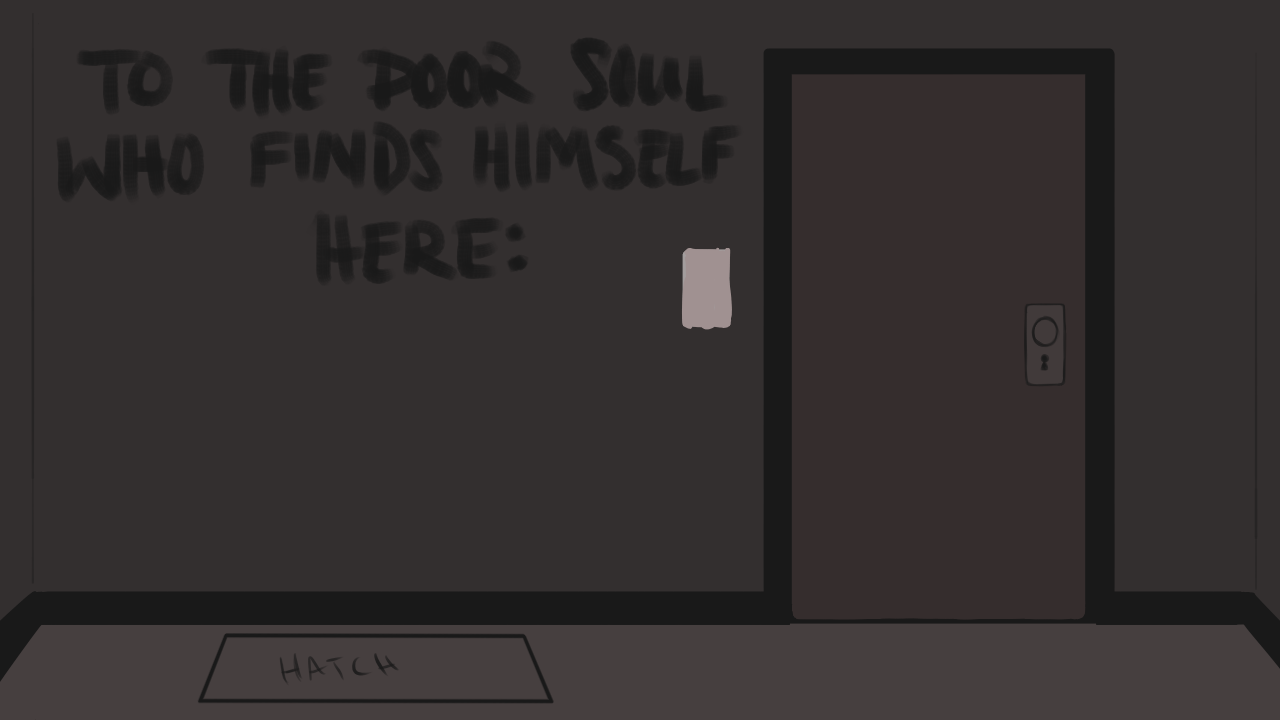
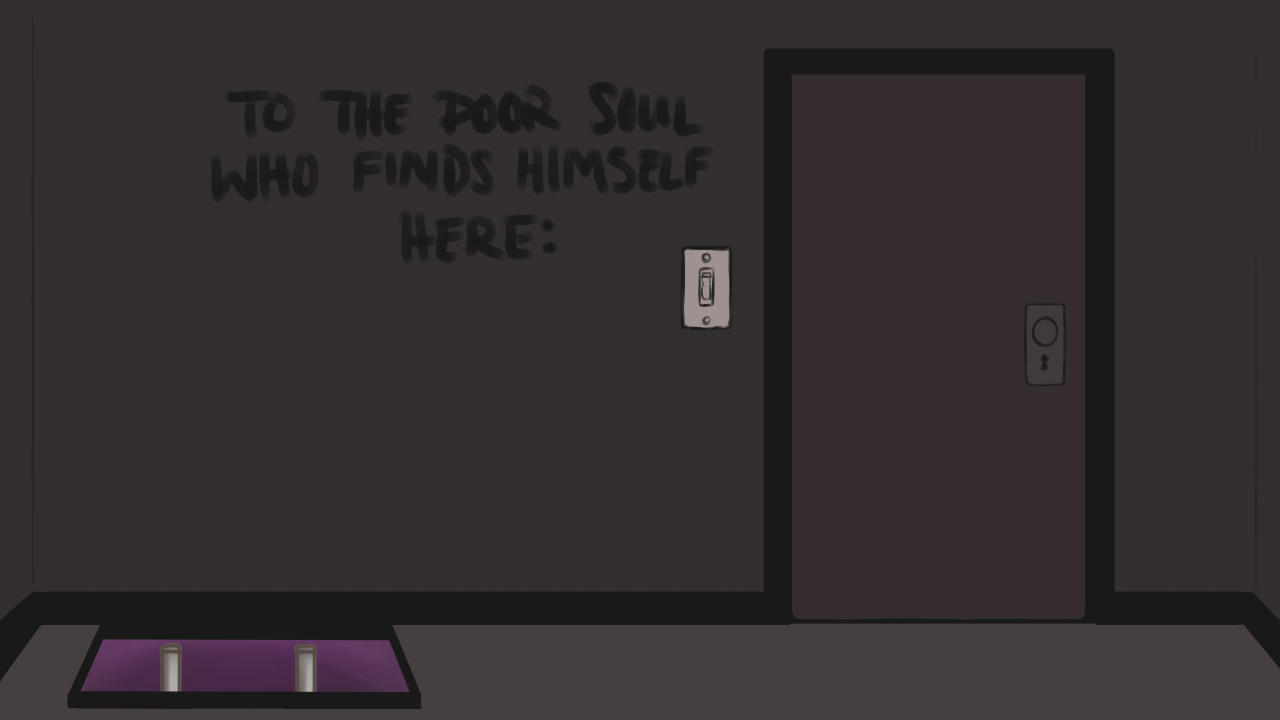
Fix scene pause movement bug

diff --git a/src/scenes/Ritual/RitualSouth.js b/src/scenes/Ritual/RitualSouth.js
@@ -36,6 +36,14 @@ class RitualSouth extends Phaser.Scene {
         
         /////////////////////////////////////////////////////////////////////////////////////////////////////////
         // objects
+        // hatch hit
+        this.hatchHit = this.add.image(240, 655, 'hitbox');
+        this.hatchHit.setDisplaySize(340, 100);
+        this.hatchHit.setVisible(true);
+        this.hatchHit.setInteractive({
+            useHandCursor: true
+        });
+
         // switch on
         this.on = this.add.image(640, 360, 'switchOn');
         this.on.setDisplaySize(1280, 720);
@@ -52,6 +60,14 @@ class RitualSouth extends Phaser.Scene {
             useHandCursor: true
         });
 
+        // closet hit
+        this.closetHit = this.add.image(940, 335, 'hitbox');
+        this.closetHit.setDisplaySize(380, 570);
+        this.closetHit.setVisible(true);
+        this.closetHit.setInteractive({
+            useHandCursor: true
+        });
+
         /////////////////////////////////////////////////////////////////////////////////////////////////////////
         // hot bar 
         this.hotbar = this.add.image(640, 350, 'hotbarRitual');
@@ -65,7 +81,7 @@ class RitualSouth extends Phaser.Scene {
         this.matchesHot.setVisible(false);
 
         this.knifeHot = this.add.sprite(560, 660, 'knifeRitual');
-        this.knifeHot.setDisplaySize(65, 65);
+        this.knifeHot.setDisplaySize(100, 65);
         this.knifeHot.setVisible(false);
 
         /////////////////////////////////////////////////////////////////////////////////////////////////////////
@@ -91,6 +107,16 @@ class RitualSouth extends Phaser.Scene {
         this.add.rectangle(0, game.config.height - 10, game.config.width, 10, 0x61282f).setOrigin(0, 0);
         this.add.rectangle(0, 0, game.config.width, 10, 0x61282f).setOrigin(0, 0);
         this.add.rectangle(game.config.width - 10, 0, 10, game.config.height, 0x61282f).setOrigin(0, 0);
+    
+        /////////////////////////////////////////////////////////////////////////////////////////////////////////
+        // scene changes
+        this.input.keyboard.on('keydown-A', () => {
+            this.scene.start("ritualEast"); 
+		});
+
+        this.input.keyboard.on('keydown-D', () => {
+            this.scene.start("ritualWest"); 
+		});
     }
     
     update() {
@@ -126,6 +152,26 @@ class RitualSouth extends Phaser.Scene {
             }
         });
 
+
+        /////////////////////////////////////////////////////////////////////////////////////////////////////////
+        // scene switches
+        // closet
+        this.closetHit.on('pointerdown', (pointer) => {
+            if(deskKey == 1 && this.textTimer == 0){
+                this.textTimer = 1;
+                this.timeVar = 50;
+                this.scene.switch("ritualCloset");
+            }
+        });
+
+        this.hatchHit.on('pointerdown', (pointer) => {
+            if(this.textTimer == 0){
+                this.textTimer = 1;
+                this.timeVar = 50;
+                this.scene.switch("loadingSouth");
+            }
+        });
+
         /////////////////////////////////////////////////////////////////////////////////////////////////////////
         // text timers
         if(this.textTimer > 0 && this.textTimer < this.timeVar) {
@@ -151,15 +197,6 @@ class RitualSouth extends Phaser.Scene {
             this.on.setVisible(true);
             this.off.setVisible(false);
         } 
-        
-        /////////////////////////////////////////////////////////////////////////////////////////////////////////
-        // scene change on keypress
-        if(Phaser.Input.Keyboard.JustDown(keyA)){
-            this.scene.start("ritualEast");
-        };
-        if(Phaser.Input.Keyboard.JustDown(keyD)){
-            this.scene.start("ritualWest");
-        };
     }
     
     hotBarItems(on){

diff --git a/src/scenes/Ritual/Closet.js b/src/scenes/Ritual/Closet.js
@@ -1,11 +1,11 @@
-class Pentagram extends Phaser.Scene {
+class Closet extends Phaser.Scene {
     constructor() {
-        super("ritualPentagram");
+        super("ritualCloset");
     }
 
     preload(){
         // scales images
-        this.load.image('pentagram', './assets/puzzle5/pentagram/ritual_closeup.png');
+        this.load.image('closet', './assets/puzzle5/closeups/closet_clock.png');
 
         // audio
         this.load.audio('unlock', './assets/sfx/doorUnlock2.wav');
@@ -14,7 +14,7 @@ class Pentagram extends Phaser.Scene {
     create() {
         /////////////////////////////////////////////////////////////////////////////////////////////////////////
         // place tile sprite
-        this.bg = this.add.tileSprite(0, 0, 1280, 720, 'pentagram').setOrigin(0, 0); 
+        this.bg = this.add.tileSprite(0, 0, 1280, 720, 'closet').setOrigin(0, 0); 
 
         /////////////////////////////////////////////////////////////////////////////////////////////////////////
         // sfx
@@ -56,13 +56,15 @@ class Pentagram extends Phaser.Scene {
         this.closeLook.on('pointerdown', () => {
             if(this.textTimer == 0){
                 this.textTimer = 1;
-                this.scene.stop("ritualPentagram");
-                this.scene.wake("ritualNorth");
+                this.scene.stop("ritualCloset");
+                this.scene.wake("ritualSouth");
             }
         });
 
         /////////////////////////////////////////////////////////////////////////////////////////////////////////
         // objects
+
+        // will need to do the clicks for the hand movement
         
 
         /////////////////////////////////////////////////////////////////////////////////////////////////////////
@@ -74,6 +76,7 @@ class Pentagram extends Phaser.Scene {
             // hide text
             this.textTimer = 0;
         }
+        
         /////////////////////////////////////////////////////////////////////////////////////////////////////////
         // end states
         if(lightState == 0){

diff --git a/src/scenes/Main/MainNorth.js b/src/scenes/Main/MainNorth.js
@@ -111,6 +111,22 @@ class MainNorth extends Phaser.Scene {
         this.textTimerIndoor = 0;
         this.textTimerGclock = 0;
         this.hotOn = true;
+
+        /////////////////////////////////////////////////////////////////////////////////////////////////////////
+        // scene change on keypress
+        this.input.keyboard.on('keydown-A', () => {
+            this.scene.start("mainWest"); 
+		});
+
+        this.input.keyboard.on('keydown-D', () => {
+            this.scene.start("mainEast"); 
+		});
+
+        // add the finish check to this @DarenBartolucci
+        this.input.keyboard.on('keydown-SPACE', () => {
+            this.scene.start("spread4"); 
+		});
+
         /////////////////////////////////////////////////////////////////////////////////////////////////////////
         // borders
         this.add.rectangle(0, 0, 10, game.config.height, 0x61282f).setOrigin(0, 0);
@@ -184,17 +200,6 @@ class MainNorth extends Phaser.Scene {
             this.gclock.interText.setVisible(false);
             this.textTimerGclock = 0;
         }
-        /////////////////////////////////////////////////////////////////////////////////////////////////////////
-        // scene change on keypress
-        if(Phaser.Input.Keyboard.JustDown(keyA)){
-            this.scene.start("mainWest");
-        };
-        if(Phaser.Input.Keyboard.JustDown(keyD)){
-            this.scene.start("mainEast");
-        };
-        if(Phaser.Input.Keyboard.JustDown(keySPACE)){
-            this.scene.start("spread4");
-        };
     }
 
     hotBarItems(on){

diff --git a/src/scenes/Loading/LoadingSouth.js b/src/scenes/Loading/LoadingSouth.js
@@ -56,9 +56,6 @@ class LoadingSouth extends Phaser.Scene {
         /////////////////////////////////////////////////////////////////////////////////////////////////////////
         // god forsaken variables
         this.textTimer = 0;
-        lightState = 0;
-        knifeGot = 0;
-        deskKey = 0;
 
         /////////////////////////////////////////////////////////////////////////////////////////////////////////
         // borders
@@ -80,11 +77,22 @@ class LoadingSouth extends Phaser.Scene {
         if(Phaser.Input.Keyboard.JustDown(keyD)){
             this.scene.start("loadingNorth");
         };
+        
         if(Phaser.Input.Keyboard.JustDown(keyA)){
             this.scene.start("loadingNorth");
         };
+
         if(Phaser.Input.Keyboard.JustDown(keySPACE)){
-            this.scene.start("spread5");
+            if(inRitual == 0){
+                this.scene.start("spread5");
+            }
+            else {
+                console.log(inRitual)
+                this.scene.stop("loadingSouth");
+                this.scene.wake("ritualSouth");
+            }
         };
+
+        
     }
 }

diff --git a/src/main.js b/src/main.js
@@ -8,7 +8,7 @@ let config = {
             Spread3, MainNorth, MainWest, MainEast, MainSouth, Clock, 
             Spread4, LookoutNorth, LookoutWest, LookoutEast, LookoutSouth, Scales, 
             LoadingNorth, LoadingSouth, 
-            Spread5, Inventory7, RitualNorth, Pentagram, Bookshelf, RitualWest, RitualEast, RitualSouth],
+            Spread5, Inventory7, RitualNorth, Pentagram, Bookshelf, RitualWest, Closet, RitualEast, RitualSouth],
   }
 
 let game = new Phaser.Game(config);
@@ -49,13 +49,14 @@ let clockUnlock = 0;
 // puzzle 4
 let rag = 0;
 let windowClean = 0;
-let citrine = 0;citrine
+let citrine = 0;
 let rope = 0;
 let hatch = 0;
 let weights = 0;
 let balanced = 0;
 
 // puzzle 5
+let inRitual = 0;
 let note = 0;
 // reuse knifeGot
 let matches = 0;

diff --git a/src/scenes/Ritual/RitualEast.js b/src/scenes/Ritual/RitualEast.js
@@ -48,7 +48,7 @@ class RitualEast extends Phaser.Scene {
         this.matchesHot.setVisible(false);
 
         this.knifeHot = this.add.sprite(560, 660, 'knifeRitual');
-        this.knifeHot.setDisplaySize(65, 65);
+        this.knifeHot.setDisplaySize(100, 65);
         this.knifeHot.setVisible(false);
 
         /////////////////////////////////////////////////////////////////////////////////////////////////////////
@@ -80,7 +80,6 @@ class RitualEast extends Phaser.Scene {
         this.invent.on('pointerdown', (pointer) => {
             this.scene.switch("cardBox7");
         });
-
 
         /////////////////////////////////////////////////////////////////////////////////////////////////////////
         // text timers

diff --git a/src/scenes/Spreads/Spread5.js b/src/scenes/Spreads/Spread5.js
@@ -75,10 +75,12 @@ class Spread5 extends Phaser.Scene {
         this.instruct.setDisplaySize(1280, 720);
         this.instruct.setVisible(true);
 
-
         /////////////////////////////////////////////////////////////////////////////////////////////////////////
-        // set level
+        // set variables
         level = 5;
+        lightState = 0;
+        knifeGot = 0;
+        deskKey = 0;
 
         /////////////////////////////////////////////////////////////////////////////////////////////////////////
         // borders

diff --git a/src/scenes/Ritual/RitualWest.js b/src/scenes/Ritual/RitualWest.js
@@ -66,7 +66,7 @@ class RitualWest extends Phaser.Scene {
         this.matchesHot.setVisible(false);
 
         this.knifeHot = this.add.sprite(560, 660, 'knifeRitual');
-        this.knifeHot.setDisplaySize(65, 65);
+        this.knifeHot.setDisplaySize(100, 65);
         this.knifeHot.setVisible(false);
 
         /////////////////////////////////////////////////////////////////////////////////////////////////////////

diff --git a/index.html b/index.html
@@ -46,6 +46,7 @@
 
     <script src = "./src/scenes/Loading/LoadingNorth.js"></script>
     <script src = "./src/scenes/Loading/LoadingSouth.js"></script>
+    <script src = "./src/scenes/Ritual/Closet.js"></script>
 
     <script src = "./src/scenes/Spreads/Spread5.js"></script>
     <script src = "./src/scenes/Inventory7.js"></script>

diff --git a/src/scenes/Lookout/Scales.js b/src/scenes/Lookout/Scales.js
@@ -139,6 +139,7 @@ class Scales extends Phaser.Scene {
                 this.scene.wake("lookoutWest");
             }
         });
+        
         /////////////////////////////////////////////////////////////////////////////////////////////////////////
         // text timers
         if(this.textTimer > 0 && this.textTimer < 150) {

diff --git a/src/scenes/Ritual/RitualNorth.js b/src/scenes/Ritual/RitualNorth.js
@@ -106,6 +106,7 @@ class RitualNorth extends Phaser.Scene {
 
         /////////////////////////////////////////////////////////////////////////////////////////////////////////
         // god forsaken variables
+        inRitual = 1;
         this.textTimer = 0;
         this.timeVar = 150;
         this.hotOn = true;
